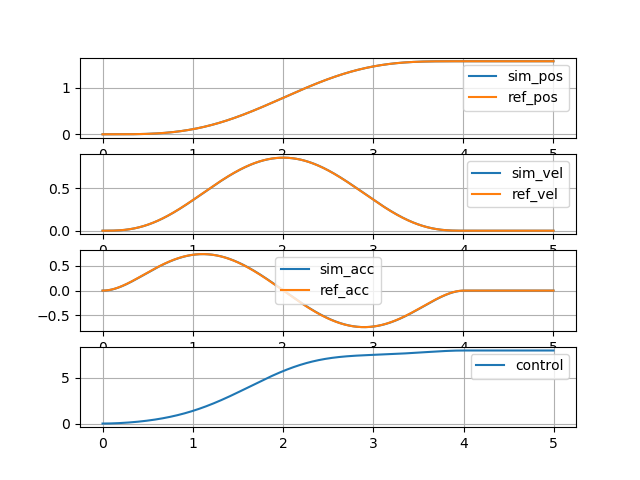
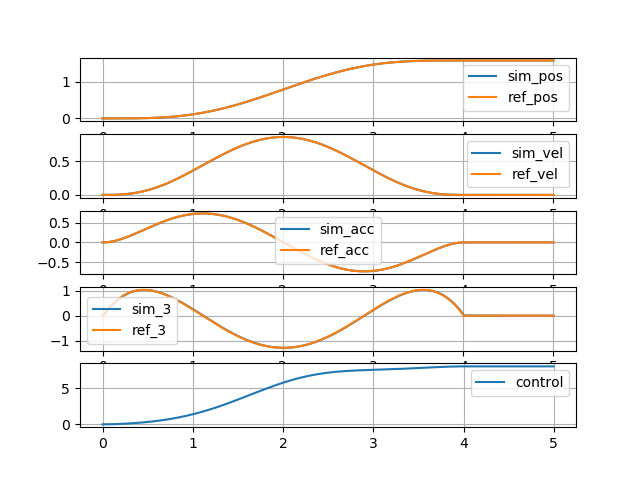
Shame on me

diff --git a/pendulum.py b/pendulum.py
@@ -60,7 +60,7 @@ def feedback_lin(pos, vel, pos_d, vel_d, ff_acc):
 
 def interpolation_7_degree(pos, pos_d, T, t):
     if t > T:
-        return pos_d, 0, 0
+        return pos_d, 0, 0, 0
     a4 = 35 / T ** 4
     a5 = -84 / T ** 5
     a6 = 70 / T ** 6
@@ -69,7 +69,8 @@ def interpolation_7_degree(pos, pos_d, T, t):
     diff = pos_d - pos
     return (pos + s * diff,
             diff * (4 * a4 * t ** 3 + 5 * a5 * t ** 4 + 6 * a6 * t ** 5 + 7 * a7 * t ** 6),
-            diff * (12 * a4 * t ** 2 + 20 * a5 * t ** 3 + 30 * a6 * t ** 4 + 42 * a7 * t ** 5))
+            diff * (12 * a4 * t ** 2 + 20 * a5 * t ** 3 + 30 * a6 * t ** 4 + 42 * a7 * t ** 5),
+            diff * (24 * a4 * t + 60 * a5 * t ** 2 + 120 * a6 * t ** 3 + 210 * a7 * t ** 4))
 
 
 log_time = [t]
@@ -80,6 +81,8 @@ log_vel_d = [0]
 log_acc = [0]
 log_acc_d = [0]
 log_ctrl = []
+log_x_3 = [0]
+log_x_3_d = [0]
 u = 0
 
 if OWN_REG:
@@ -96,7 +99,7 @@ while t <= maxTime:
     pos, vel = p.getJointState(bodyId, jIdx)[:2]
     acc = (vel - prev_vel) / dt
 
-    curr_pos_d, curr_vel_d, curr_acc_d = interpolation_7_degree(q0_fact, pos_d, trajTime, t)
+    curr_pos_d, curr_vel_d, curr_acc_d, curr_x_3_d = interpolation_7_degree(q0_fact, pos_d, trajTime, t)
     u = feedback_lin(pos, vel, curr_pos_d, curr_vel_d, curr_acc_d)
 
     if OWN_REG:
@@ -115,9 +118,11 @@ while t <= maxTime:
     log_pos.append(pos)
     log_vel.append(vel)
     log_acc.append(acc)
+    log_x_3.append((acc - prev_acc) / dt)
     log_pos_d.append(curr_pos_d)
     log_vel_d.append(curr_vel_d)
     log_acc_d.append(curr_acc_d)
+    log_x_3_d.append(curr_x_3_d)
     prev_vel = vel
     prev_acc = acc
     log_ctrl.append(u)
@@ -127,25 +132,31 @@ while t <= maxTime:
 p.disconnect()
 
 # ----------------------------------- plots -----------------------------------
-plt.subplot(4, 1, 1)
+plt.subplot(5, 1, 1)
 plt.plot(log_time, log_pos, label='sim_pos')
 plt.plot(log_time, log_pos_d, label='ref_pos')
 plt.grid(True)
 plt.legend()
 
-plt.subplot(4, 1, 2)
+plt.subplot(5, 1, 2)
 plt.plot(log_time, log_vel, label='sim_vel')
 plt.plot(log_time, log_vel_d, label='ref_vel')
 plt.grid(True)
 plt.legend()
 
-plt.subplot(4, 1, 3)
+plt.subplot(5, 1, 3)
 plt.plot(log_time, log_acc, label='sim_acc')
 plt.plot(log_time, log_acc_d, label='ref_acc')
 plt.grid(True)
 plt.legend()
 
-plt.subplot(4, 1, 4)
+plt.subplot(5, 1, 4)
+plt.plot(log_time, log_x_3, label='sim_3')
+plt.plot(log_time, log_x_3_d, label='ref_3')
+plt.grid(True)
+plt.legend()
+
+plt.subplot(5, 1, 5)
 plt.plot(log_time[0:-1], log_ctrl, label='control')
 plt.grid(True)
 plt.legend()
